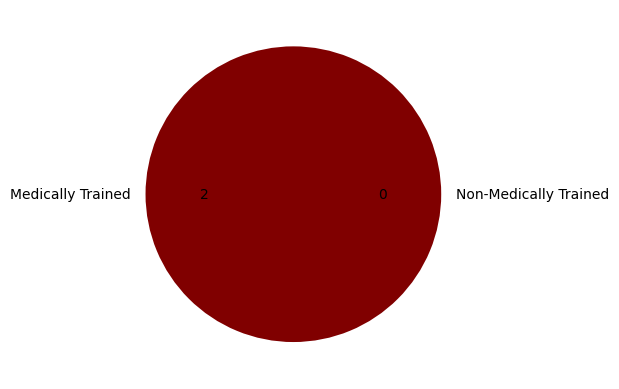
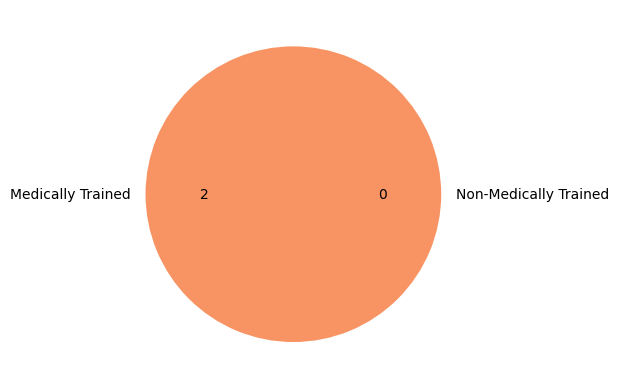
colour change

Changed region(s): [[0.2149, 0.0925, 0.7367, 0.8946]]

diff --git a/admin/summary.py b/admin/summary.py
@@ -26,7 +26,7 @@ def generate_pie(camp, df):
         return int(a)
     
     mylabels = ['Non-Medically Trained','Medically Trained']
-    mycolors = ["#008080", "#800000"]
+    mycolors = ["#008080", "#F89464"]
     plt.pie(y, labels = mylabels, colors = mycolors, autopct=absolute_value)
 
     
@@ -222,7 +222,7 @@ def makeSummary(x):
     <font size ="11"><p><b>Number of Refugees:</b> {stats['num_refs']}</p></font>
     <font size ="11"><p><b>Total Capacity:</b> {stats['capacity']}</p></font>
     <font size="10"><p><b>            Filled Capacity:</b> {stats['filled_capacity']: .0f}%</p> </font>
-    <center><img src="summaries/{camp}.png" width='200'><center>
+    <center><img src="summaries/{camp}.png" width = '190'><center>
     <br>
     <br>
     </section>""")
